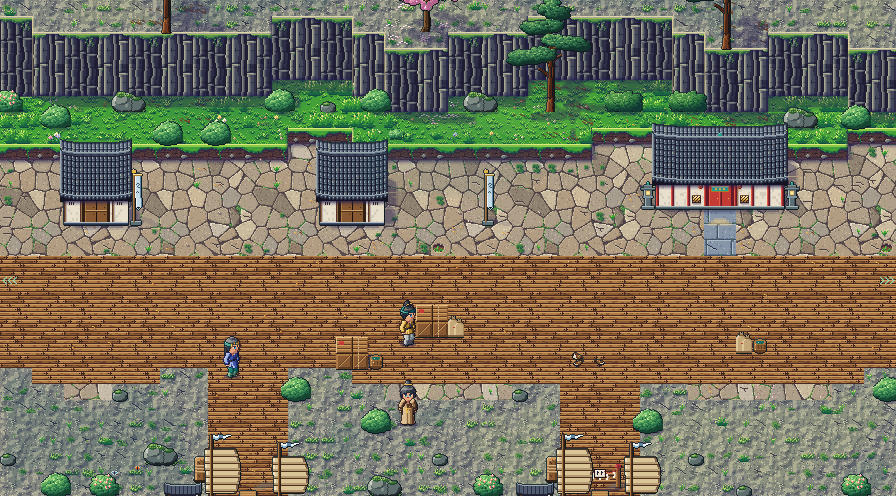
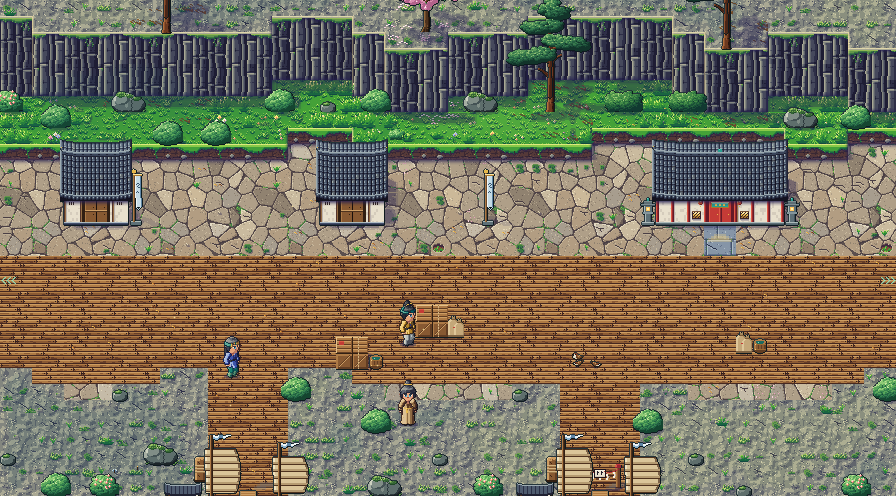
R6: the Skydock's pictures retaken with the hall a row south; the spec lines in the table
Claude-Session: https://claude.ai/code/session_01M721JCQMMbc2qs2YMLxRch

diff --git a/JadeRiver/docs/architecture/room_engine.md b/JadeRiver/docs/architecture/room_engine.md
@@ -622,7 +622,7 @@ the nineteen rooms too.
 | `ae_landing` | 21 | `sky_port` | `01_arrival_terrace_gate`, `02_arrival_terrace_rim`, `rooms/ae_landing` |
 | `ae_port_market` | 29 | `sky_port` | `03_port_market_street`, `04_port_market_gate`, `rooms/ae_port_market` |
 | `ae_wayfarers_inn` | 9 | (an interior) | `05_wayfarers_inn` |
-| `ae_skydock` | 21 | `sky_port` | `06_skydock_berths`, `rooms/ae_skydock` |
+| `ae_skydock` | 22 | `sky_port` | `06_skydock_berths`, `rooms/ae_skydock` |
 | `ae_condensing_hall` | 13 | (an interior) | `07_condensing_hall` |
 | `ae_shipyard` | 18 | `sky_port` | `08_shipyard_slip`, `rooms/ae_shipyard` |
 | `tp_stormgrass_verge` | 20 | `storm_plains` | `09_stormgrass_verge`, `rooms/tp_stormgrass_verge` |
@@ -633,11 +633,11 @@ the nineteen rooms too.
 | `rf_snow_ape_ledges` | 17 | `snowfield` | `16_snow_ape_ledges`, `rooms/rf_snow_ape_ledges` |
 | `rf_rimefrost_summit` | 18 | `snowfield` | `17_rimefrost_summit`, `18_rimefrost_summit_rim`, `rooms/rf_rimefrost_summit` |
 | `rf_hermits_ice_cave` | 12 | `snowfield` | `19_hermits_ice_cave` |
-| `ml_reedless_shore` | 22 | `mirror_lake` | `20_reedless_shore_ferry`, `21_reedless_shore_mirror`, `rooms/ml_reedless_shore` |
+| `ml_reedless_shore` | 23 | `mirror_lake` | `20_reedless_shore_ferry`, `21_reedless_shore_mirror`, `rooms/ml_reedless_shore` |
 | `ml_mirror_shallows` | 24 | `mirror_lake` | `22_mirror_shallows`, `rooms/ml_mirror_shallows` |
 | `ml_sentinel_causeway` | 28 | `mirror_lake` | `23_sentinel_causeway`, `rooms/ml_sentinel_causeway` |
 | `ml_lake_shrine` | 17 | `mirror_lake` | `24_lake_shrine`, `rooms/ml_lake_shrine` |
-| `ml_toads_hollow` | 17 | `mirror_lake` | `25_toads_hollow`, `rooms/ml_toads_hollow` |
+| `ml_toads_hollow` | 18 | `mirror_lake` | `25_toads_hollow`, `rooms/ml_toads_hollow` |
 
 The specs: `specs/cloudgate_port.py`, `thunderhorn_plains.py`, `rimefrost_heights.py`, `mirrorwater_lake.py`. As R4's,
 the x2 copies of the world alone are not kept, and an interior's whole room is its view.
